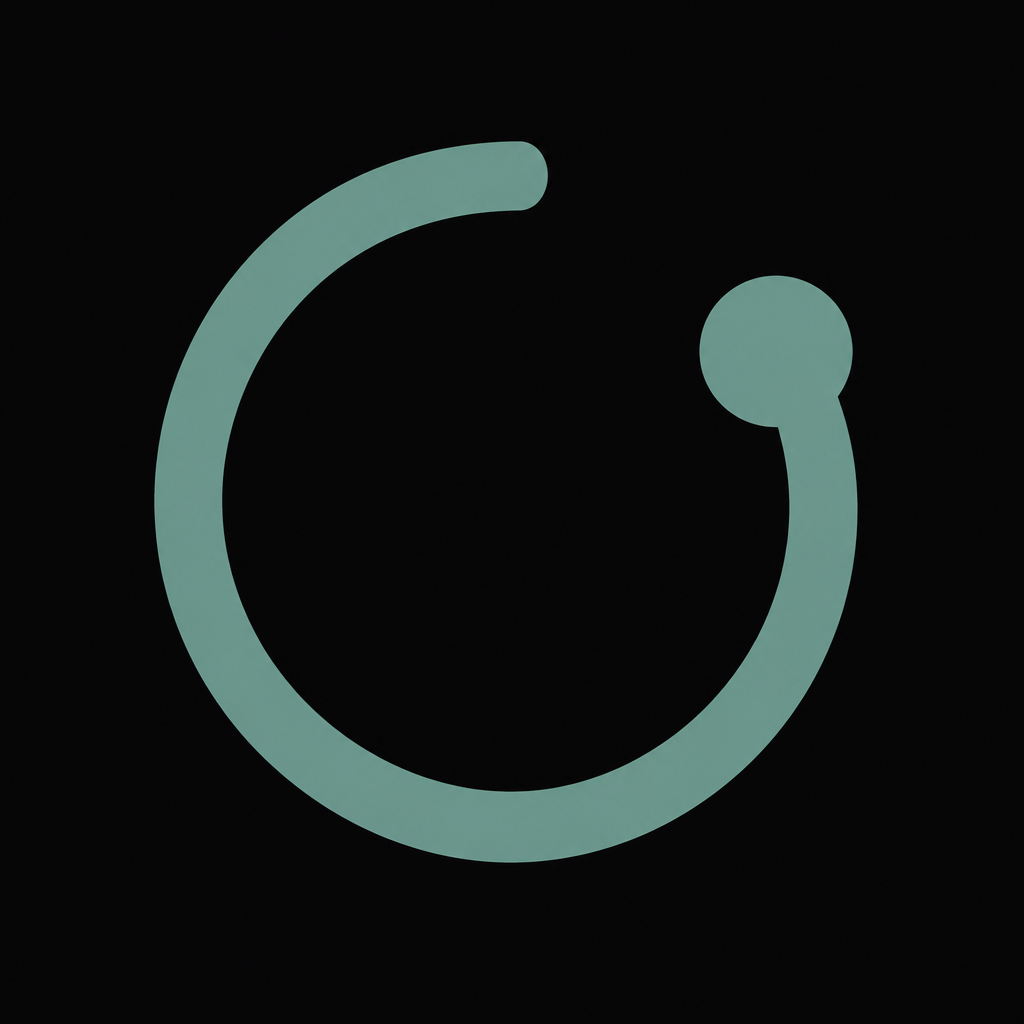
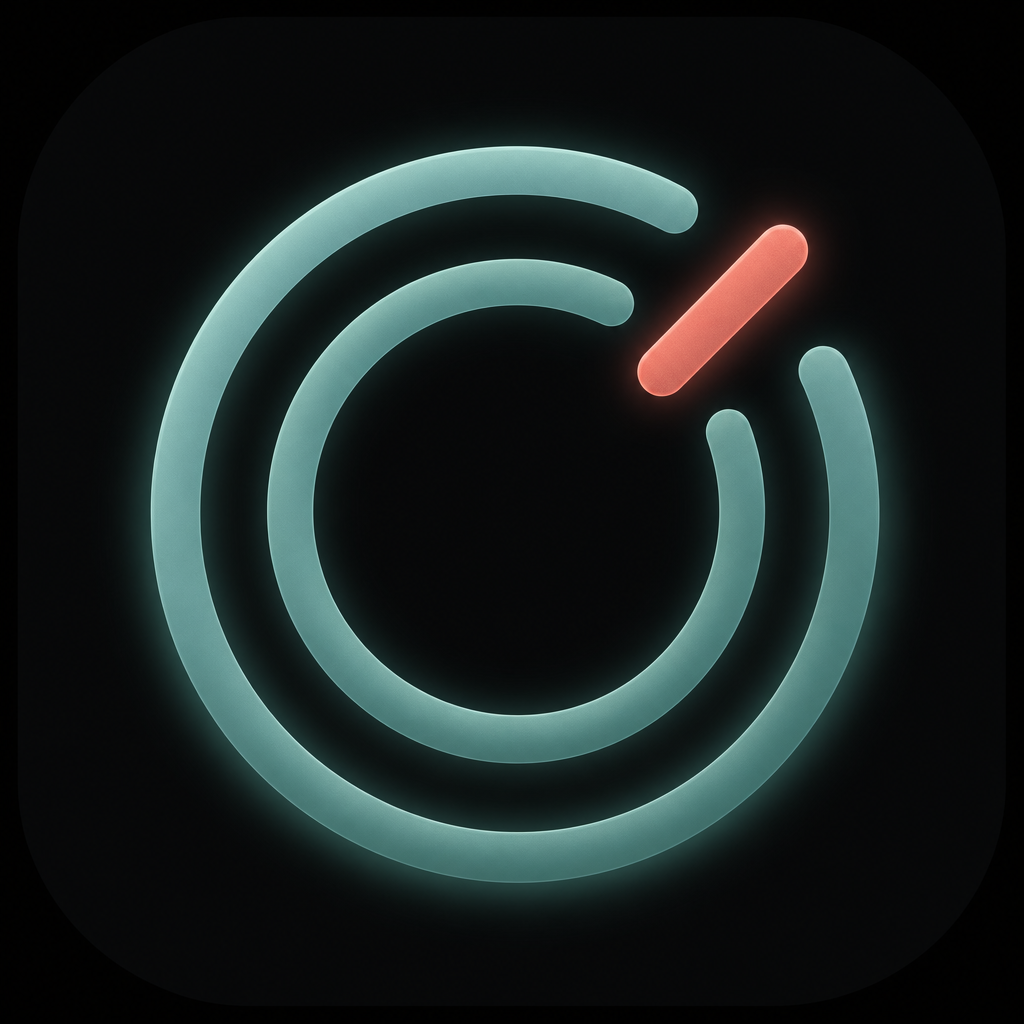
Refresh branding assets and add a generator script.
Keep launcher icons and logo artwork reproducible from a single source image.

Changed region(s): [[0.125, 0.125, 0.9062, 0.9062]]

diff --git a/scripts/_gen_branding.py b/scripts/_gen_branding.py
@@ -1,0 +1,66 @@
+from PIL import Image
+from pathlib import Path
+
+src_logo = Path(r"C:\Users\jayms\.cursor\projects\c-repo-RollingAlarm\assets\logo_1024.png")
+src_fav = Path(r"C:\Users\jayms\.cursor\projects\c-repo-RollingAlarm\assets\favicon_flat.png")
+out = Path(r"C:\repo\RollingAlarm\assets\branding")
+out.mkdir(parents=True, exist_ok=True)
+
+
+def load_rgba(p: Path) -> Image.Image:
+    return Image.open(p).convert("RGBA")
+
+
+def fit_square(im: Image.Image, size: int, bg=(10, 10, 10, 255)) -> Image.Image:
+    base = Image.new("RGBA", im.size, bg)
+    base = Image.alpha_composite(base, im)
+    return base.resize((size, size), Image.Resampling.LANCZOS).convert("RGBA")
+
+
+logo = load_rgba(src_logo)
+fav = load_rgba(src_fav)
+
+fit_square(logo, 1024).save(out / "logo_1024.png", optimize=True)
+fit_square(logo, 1024).save(out / "logo.png", optimize=True)
+fit_square(logo, 512).save(out / "logo_512.png", optimize=True)
+fit_square(logo, 1024).save(out / "app_icon.png", optimize=True)
+
+
+def fav_size(n: int) -> Image.Image:
+    return fit_square(fav, n, bg=(10, 10, 10, 255))
+
+
+for n, name in [
+    (16, "favicon-16.png"),
+    (32, "favicon-32.png"),
+    (48, "favicon-48.png"),
+    (64, "favicon-64.png"),
+]:
+    fav_size(n).save(out / name, optimize=True)
+
+fav_size(32).save(out / "favicon.png", optimize=True)
+
+icons = [fav_size(16), fav_size(32), fav_size(48)]
+icons[0].save(
+    out / "favicon.ico",
+    format="ICO",
+    sizes=[(16, 16), (32, 32), (48, 48)],
+    append_images=icons[1:],
+)
+
+android_sizes = {
+    "mipmap-mdpi": 48,
+    "mipmap-hdpi": 72,
+    "mipmap-xhdpi": 96,
+    "mipmap-xxhdpi": 144,
+    "mipmap-xxxhdpi": 192,
+}
+res = Path(r"C:\repo\RollingAlarm\android\app\src\main\res")
+for folder, size in android_sizes.items():
+    dest = res / folder / "ic_launcher.png"
+    fit_square(logo, size).save(dest, optimize=True)
+    print(f"wrote {dest} ({size})")
+
+print("branding files:")
+for p in sorted(out.iterdir()):
+    print(f"  {p.name:20} {p.stat().st_size:8d}")
